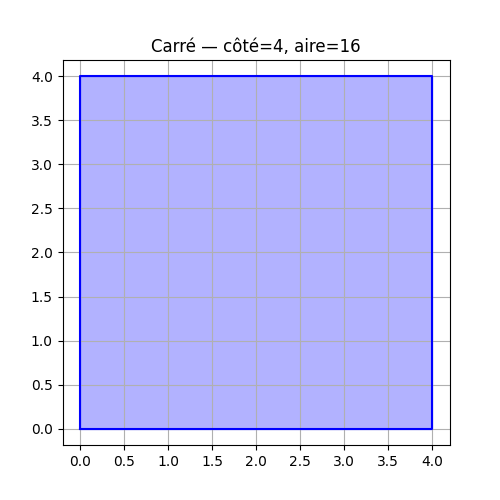
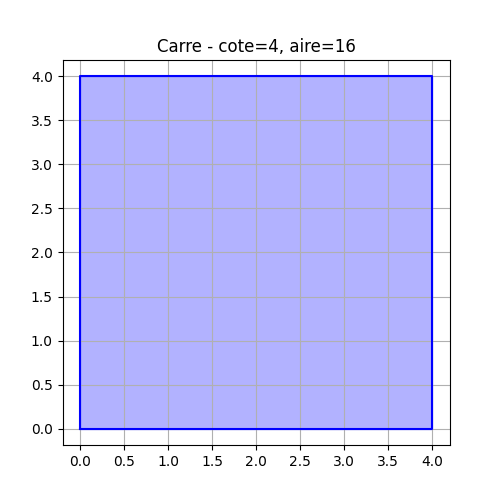
ouassim was here- 300150564

Changed region(s): [[0.3, 0.06, 0.72, 0.12]]

diff --git a/3.Tris/300150564/3.Tris/300150564/generate_images.py b/3.Tris/300150564/3.Tris/300150564/generate_images.py
@@ -1,0 +1,49 @@
+import matplotlib.pyplot as plt
+
+# --- Tri Insertion ---
+avant = [8, 3, 5, 2, 9, 1]
+apres = [1, 2, 3, 5, 8, 9]
+
+fig, (ax1, ax2) = plt.subplots(1, 2, figsize=(10, 4))
+ax1.bar(range(len(avant)), avant, color='salmon')
+ax1.set_title('Avant le tri')
+ax1.set_xticks(range(len(avant)))
+ax1.set_xticklabels(avant)
+ax2.bar(range(len(apres)), apres, color='lightgreen')
+ax2.set_title('Apres le tri')
+ax2.set_xticks(range(len(apres)))
+ax2.set_xticklabels(apres)
+fig.suptitle('Tri par Insertion', fontsize=14, fontweight='bold')
+plt.tight_layout()
+plt.savefig('images/tri_insertion.png')
+plt.close()
+
+# --- Tri Shell ---
+avant = [45, 23, 11, 89, 77, 98, 4, 28, 65, 43]
+apres = [4, 11, 23, 28, 43, 45, 65, 77, 89, 98]
+
+fig, (ax1, ax2) = plt.subplots(1, 2, figsize=(10, 4))
+ax1.bar(range(len(avant)), avant, color='salmon')
+ax1.set_title('Avant le tri')
+ax2.bar(range(len(apres)), apres, color='lightgreen')
+ax2.set_title('Apres le tri')
+fig.suptitle('Tri de Shell', fontsize=14, fontweight='bold')
+plt.tight_layout()
+plt.savefig('images/tri_shell.png')
+plt.close()
+
+# --- Tri Rapide ---
+avant = [34, 7, 23, 32, 5, 62, 32, 2, 7]
+apres = [2, 5, 7, 7, 23, 32, 32, 34, 62]
+
+fig, (ax1, ax2) = plt.subplots(1, 2, figsize=(10, 4))
+ax1.bar(range(len(avant)), avant, color='salmon')
+ax1.set_title('Avant le tri')
+ax2.bar(range(len(apres)), apres, color='lightgreen')
+ax2.set_title('Apres le tri')
+fig.suptitle('Tri Rapide (Quick Sort)', fontsize=14, fontweight='bold')
+plt.tight_layout()
+plt.savefig('images/tri_quick.png')
+plt.close()
+
+print("Images generees dans images/")

diff --git a/3.Tris/300150564/generate_images.py b/3.Tris/300150564/generate_images.py
@@ -1,0 +1,49 @@
+import matplotlib.pyplot as plt
+
+# --- Tri Insertion ---
+avant = [8, 3, 5, 2, 9, 1]
+apres = [1, 2, 3, 5, 8, 9]
+
+fig, (ax1, ax2) = plt.subplots(1, 2, figsize=(10, 4))
+ax1.bar(range(len(avant)), avant, color='salmon')
+ax1.set_title('Avant le tri')
+ax1.set_xticks(range(len(avant)))
+ax1.set_xticklabels(avant)
+ax2.bar(range(len(apres)), apres, color='lightgreen')
+ax2.set_title('Apres le tri')
+ax2.set_xticks(range(len(apres)))
+ax2.set_xticklabels(apres)
+fig.suptitle('Tri par Insertion', fontsize=14, fontweight='bold')
+plt.tight_layout()
+plt.savefig('images/tri_insertion.png')
+plt.close()
+
+# --- Tri Shell ---
+avant = [45, 23, 11, 89, 77, 98, 4, 28, 65, 43]
+apres = [4, 11, 23, 28, 43, 45, 65, 77, 89, 98]
+
+fig, (ax1, ax2) = plt.subplots(1, 2, figsize=(10, 4))
+ax1.bar(range(len(avant)), avant, color='salmon')
+ax1.set_title('Avant le tri')
+ax2.bar(range(len(apres)), apres, color='lightgreen')
+ax2.set_title('Apres le tri')
+fig.suptitle('Tri de Shell', fontsize=14, fontweight='bold')
+plt.tight_layout()
+plt.savefig('images/tri_shell.png')
+plt.close()
+
+# --- Tri Rapide ---
+avant = [34, 7, 23, 32, 5, 62, 32, 2, 7]
+apres = [2, 5, 7, 7, 23, 32, 32, 34, 62]
+
+fig, (ax1, ax2) = plt.subplots(1, 2, figsize=(10, 4))
+ax1.bar(range(len(avant)), avant, color='salmon')
+ax1.set_title('Avant le tri')
+ax2.bar(range(len(apres)), apres, color='lightgreen')
+ax2.set_title('Apres le tri')
+fig.suptitle('Tri Rapide (Quick Sort)', fontsize=14, fontweight='bold')
+plt.tight_layout()
+plt.savefig('images/tri_quick.png')
+plt.close()
+
+print("Images generees dans images/")

diff --git a/4.Hashing/300150564/generate_images.py b/4.Hashing/300150564/generate_images.py
@@ -1,0 +1,43 @@
+import matplotlib.pyplot as plt
+import numpy as np
+
+# --- Image 1 : Table de hachage ---
+fig, ax = plt.subplots(figsize=(8, 4))
+table = [[] for _ in range(5)]
+
+def hash_simple(mot, taille):
+    return sum(ord(c) for c in mot) % taille
+
+data = [("alice", 25), ("bob", 30), ("charlie", 28), ("david", 40)]
+for cle, val in data:
+    table[hash_simple(cle, 5)].append(f"{cle}:{val}")
+
+labels = [f"[{i}] {' | '.join(v) if v else 'vide'}" for i, v in enumerate(table)]
+colors = ['lightcoral' if v else 'lightgray' for v in table]
+ax.barh(range(5), [1]*5, color=colors, edgecolor='black')
+for i, label in enumerate(labels):
+    ax.text(0.05, i, label, va='center', fontsize=11)
+ax.set_yticks([])
+ax.set_xticks([])
+ax.set_title('Table de hachage - Insertion', fontsize=13, fontweight='bold')
+plt.tight_layout()
+plt.savefig('images/hash_table.png')
+plt.close()
+
+# --- Image 2 : Compteur de mots ---
+texte = "python est simple et python est puissant"
+mots = texte.split()
+compteur = {}
+for mot in mots:
+    compteur[mot] = compteur.get(mot, 0) + 1
+
+fig, ax = plt.subplots(figsize=(8, 4))
+ax.bar(compteur.keys(), compteur.values(), color='steelblue')
+ax.set_title('Compteur de mots', fontsize=13, fontweight='bold')
+ax.set_xlabel('Mots')
+ax.set_ylabel('Occurrences')
+plt.tight_layout()
+plt.savefig('images/wordcount.png')
+plt.close()
+
+print("Images generees dans images/")

diff --git a/5.OOP/300150564/generate_images.py b/5.OOP/300150564/generate_images.py
@@ -1,0 +1,44 @@
+import matplotlib.pyplot as plt
+import numpy as np
+
+# --- Carre ---
+cote = 4
+x = [0, cote, cote, 0, 0]
+y = [0, 0, cote, cote, 0]
+plt.figure(figsize=(5, 5))
+plt.plot(x, y, 'b-')
+plt.fill(x, y, alpha=0.3, color='blue')
+plt.title(f'Carre - cote={cote}, aire={cote**2}')
+plt.axis('equal')
+plt.grid(True)
+plt.savefig('images/carre.png')
+plt.close()
+
+# --- Cercle ---
+r = 3
+theta = np.linspace(0, 2*np.pi, 300)
+x = r * np.cos(theta)
+y = r * np.sin(theta)
+plt.figure(figsize=(5, 5))
+plt.plot(x, y, 'r-')
+plt.fill(x, y, alpha=0.3, color='red')
+plt.title(f'Cercle - rayon={r}, aire={3.14159*r**2:.2f}')
+plt.axis('equal')
+plt.grid(True)
+plt.savefig('images/cercle.png')
+plt.close()
+
+# --- Triangle ---
+b, h = 5, 2
+x = [0, b, b/2, 0]
+y = [0, 0, h, 0]
+plt.figure(figsize=(5, 5))
+plt.plot(x, y, 'g-')
+plt.fill(x, y, alpha=0.3, color='green')
+plt.title(f'Triangle - base={b}, hauteur={h}, aire={b*h/2}')
+plt.axis('equal')
+plt.grid(True)
+plt.savefig('images/triangle.png')
+plt.close()
+
+print("Images generees dans images/")

diff --git a/4.Hashing/300150564/README.md b/4.Hashing/300150564/README.md
@@ -26,6 +26,7 @@ Chaque exercice ecrit ses resultats dans le dossier resultats/.
 ---
 
 ▶ Execution
+
 ```bash
 python ex1_hash.py
 python ex2_insert.py
@@ -36,12 +37,12 @@ python ex5_wordcount.py
 
 ---
 
-📂 Resultats
+📊 Visualisations
 
-| Fichier | Contenu |
-|---------|---------|
-| `resultats/ex1.txt` | Hash des mots |
-| `resultats/ex2.txt` | Table de hachage |
-| `resultats/ex3.txt` | Resultats de recherche |
-| `resultats/ex4.txt` | Notes des etudiants |
-| `resultats/ex5.txt` | Comptage des mots |
+🔐 Table de hachage
+
+![Hash Table](images/hash_table.png)
+
+🔢 Compteur de mots
+
+![Word Count](images/wordcount.png)

diff --git a/3.Tris/300150564/README.md b/3.Tris/300150564/README.md
@@ -24,6 +24,7 @@ avec lecture depuis des fichiers d'entree.
 ---
 
 ▶ Execution
+
 ```bash
 python insertion/main.py
 python shell/main.py
@@ -32,10 +33,16 @@ python quick/main.py
 
 ---
 
-📊 Resultats
+📊 Visualisations
 
-| Algorithme | Entree | Sortie |
-|------------|--------|--------|
-| Insertion | 8 3 5 2 9 1 | 1 2 3 5 8 9 |
-| Shell | 45 23 11 89 77 | 4 11 23 28 43 45 |
-| Quick | 34 7 23 32 5 | 2 5 7 7 23 32 |
+🔹 Tri par Insertion
+
+![Tri Insertion](images/tri_insertion.png)
+
+🔹 Tri de Shell
+
+![Tri Shell](images/tri_shell.png)
+
+🔹 Tri Rapide
+
+![Tri Quick](images/tri_quick.png)

diff --git a/8.Dijkstra/300150564/README.md b/8.Dijkstra/300150564/README.md
@@ -1,4 +1,4 @@
-🗺 TP Dijkstra 
+🗺 TP Dijkstra - Capitales Europeennes
 
 | Nom | Ouassim Ahmed Benamira |
 |-----|------------------------|
@@ -26,6 +26,7 @@ le plus court chemin entre des capitales europeennes.
 ---
 
 ▶ Execution
+
 ```bash
 python dijkstra_tp.py
 python check_results.py
@@ -39,6 +40,12 @@ python visualisation.py
 | Depart | Arrivee | Chemin | Distance |
 |--------|---------|--------|----------|
 | 🇫🇷 Paris | 🇨🇿 Prague | Paris → Berlin → Prague | 1330 km |
+
+---
+
+📊 Visualisation du graphe
+
+![Graphe Dijkstra](images/graphe_dijkstra.png)
 
 ---
 

diff --git a/5.OOP/300150564/README.md b/5.OOP/300150564/README.md
@@ -26,23 +26,23 @@ Projet Python demontrant la POO et l'heritage avec des figures geometriques.
 ---
 
 ▶ Execution
+
 ```bash
 python main.py
 ```
 
 ---
 
-📊 Resultats
+📊 Visualisations
 
-| Figure | Dimensions | Aire |
-|--------|------------|------|
-| 🟦 Carre | cote=4 | 16 |
-| ⚪ Cercle | rayon=3 | 28.27 |
-| 🔺 Triangle | base=5, hauteur=2 | 5.0 |
+🟦 Carre
 
----
+![Carre](images/carre.png)
 
-📦 Librairies
+⚪ Cercle
 
-- 📈 matplotlib
-- 🔢 numpy
+![Cercle](images/cercle.png)
+
+🔺 Triangle
+
+![Triangle](images/triangle.png)

diff --git a/0.PlanDeCours/300150564/README.md b/0.PlanDeCours/300150564/README.md
@@ -1,2 +1,8 @@
-# 300150564
-# Ahmed Ouassim Benamira
+🎓 Plan de Cours - Programmation 2
+
+| Nom | Ouassim Ahmed Benamira |
+|-----|------------------------|
+| 🆔  | 300150564              |
+| 📚  | INF1093-201-26H-05     |
+
+---

diff --git a/2.IO/300150564/README.md b/2.IO/300150564/README.md
@@ -35,3 +35,9 @@ python IO.py
 
 - ✅ Liste des etudiants ayant >= 60
 - 📈 Moyenne du groupe : 79.33
+
+---
+
+📊 Diagramme des notes
+
+![Diagramme des notes](images/download.png)
